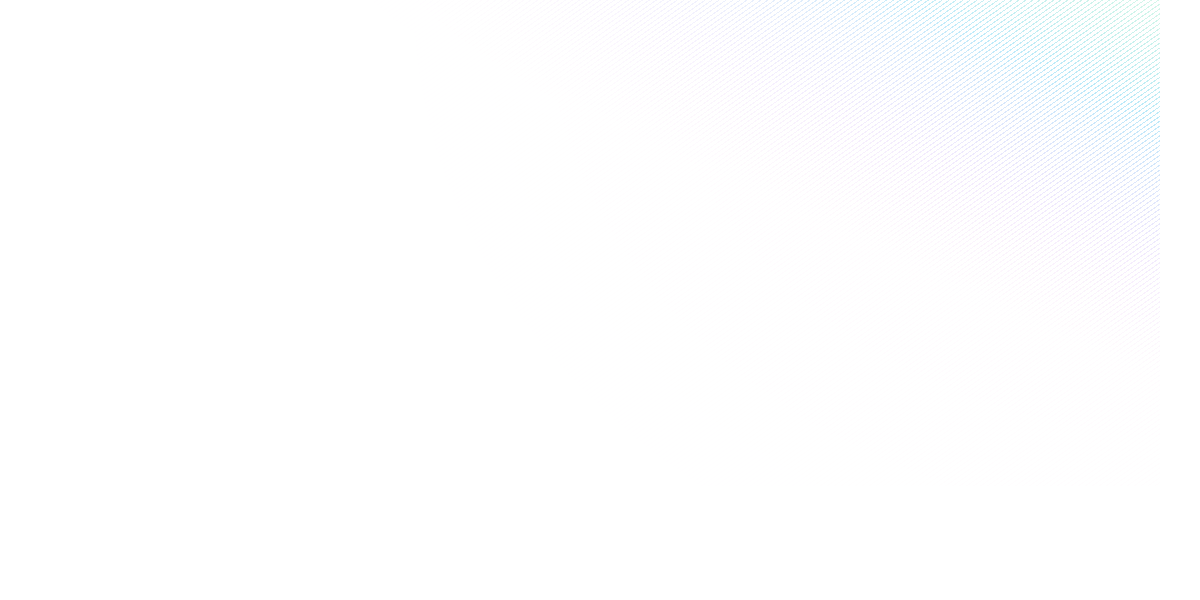
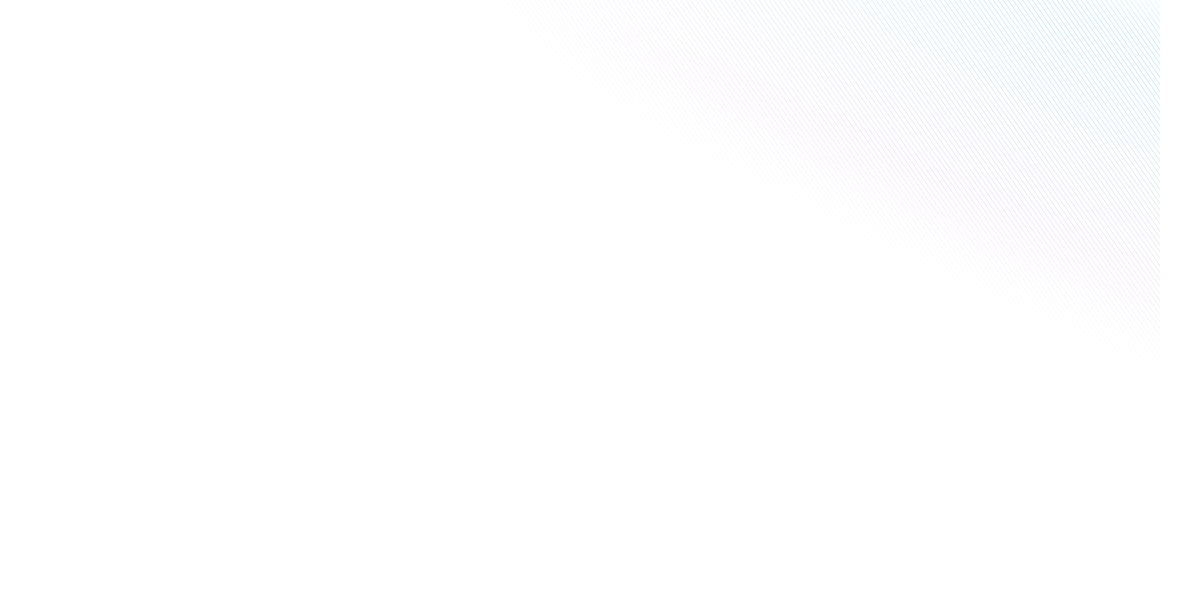
fix(home): light the hero foil violet to cyan instead of a rainbow
The five ticket colours in evenly spaced bands read as a pride flag. The hero
and the share card now use only violet into cyan, over the same area.

Changed region(s): [[0.6475, 0.0, 0.9867, 0.33]]

diff --git a/app/pages/index.vue b/app/pages/index.vue
@@ -152,7 +152,7 @@ defineOgImage('Site', {
 
 <style scoped>
 .hero {
-  /* Where the foil's rainbow band starts, how far apart its colours are, and how far the foil reaches */
+  /* Where the foil's band starts, a quarter of its width, and how far the foil reaches */
   --foil-band: 45%;
   --foil-step: 7%;
   --foil-reach: 62% 105%;
@@ -163,8 +163,9 @@ defineOgImage('Site', {
 }
 
 /* The contact ticket's foil, held still in the empty top-right corner: fine 55° lines in faint ink, lit by a
-   rainbow band, fading out before the text. The share card draws the same thing. It is a little stronger on light
-   paper, where the pale lines would otherwise vanish. */
+   violet-to-cyan band, fading out before the text. Only two of the ticket's colours: all five in a row read as a
+   pride flag. The share card draws the same thing. It is a little stronger on light paper, where the pale lines
+   would otherwise vanish. */
 .hero::before {
   content: '';
   position: absolute;
@@ -177,11 +178,8 @@ defineOgImage('Site', {
     linear-gradient(
       25deg,
       transparent var(--foil-band),
-      color-mix(in oklab, var(--holo-1) 65%, transparent) calc(var(--foil-band) + 9%),
-      color-mix(in oklab, var(--holo-2) 65%, transparent) calc(var(--foil-band) + 9% + var(--foil-step)),
-      color-mix(in oklab, var(--holo-3) 65%, transparent) calc(var(--foil-band) + 9% + 2 * var(--foil-step)),
-      color-mix(in oklab, var(--holo-4) 65%, transparent) calc(var(--foil-band) + 9% + 3 * var(--foil-step)),
-      color-mix(in oklab, var(--holo-5) 65%, transparent) calc(var(--foil-band) + 9% + 4 * var(--foil-step)),
+      color-mix(in oklab, var(--holo-2) 60%, transparent) calc(var(--foil-band) + 9%),
+      color-mix(in oklab, var(--holo-3) 60%, transparent) calc(var(--foil-band) + 9% + 4 * var(--foil-step)),
       transparent calc(var(--foil-band) + 17% + 4 * var(--foil-step))
     ),
     color-mix(in oklab, var(--ink) 11%, transparent);

diff --git a/app/components/OgImage/Site.takumi.vue b/app/components/OgImage/Site.takumi.vue
@@ -52,7 +52,7 @@ const RULE = 486
       }"
     />
 
-    <!-- Fine 55° lines lit by a faint rainbow band, fading out from the top-right corner: the ticket's foil, drawn
+    <!-- Fine 55° lines lit by a faint violet-to-cyan band, fading out from the top-right corner: the ticket's foil, drawn
          as a 1200 × 600 transparent image -->
     <img v-if="!image" src="/og/foil.png" :style="{ position: 'absolute', inset: 0, width: '1200px', height: '600px' }" />
 
